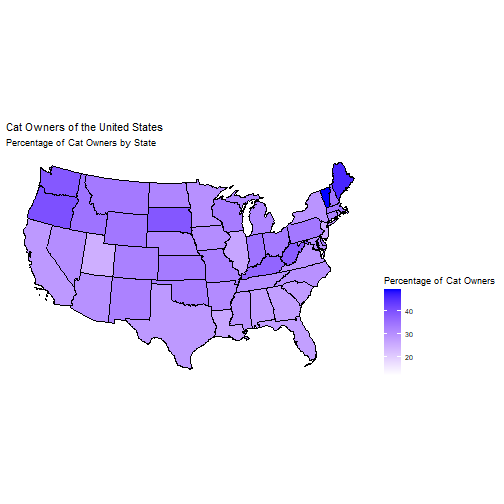
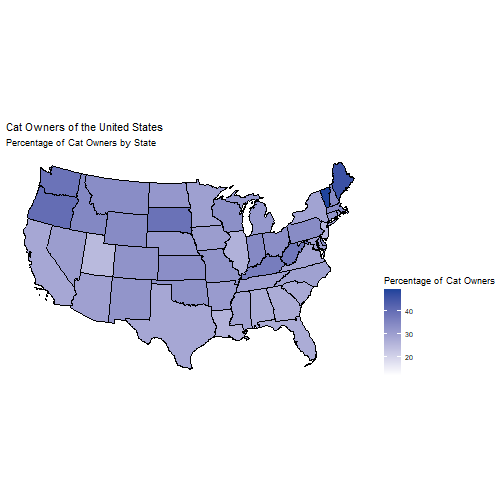
Worked on it a bit

Changed region(s): [[0.0298, 0.3274, 0.7143, 0.744], [0.744, 0.5655, 0.8036, 0.7143]]

diff --git a/Independent Project/Scripts/Cats_vs_Dogs-Project.html b/Independent Project/Scripts/Cats_vs_Dogs-Project.html
@@ -25,7 +25,7 @@ class: center, middle, inverse, title-slide
 ### CSUN
 ]
 .date[
-### 2016/12/12 (updated: 2023-04-04)
+### 2016/12/12 (updated: 2023-04-06)
 ]
 
 ---
@@ -45,19 +45,19 @@ library(usmap)
 # Introduction to the Data Set
 
 - The data was received from the Tidy Tuesday Repository
+
 - The data frame includes cat and dog owner data from the United States
 
-.pull-center[
 
 ```r
 CatvDog_Data &lt;- read.csv(here("Independent Project", "Data", "cats_vs_dogs.csv"))
 ```
-]
 ---
 
 # Cat Owner Percentage in the United States
 
-.pull-left[
+- The code below was used to make the plot on the next slide.
+
 
 ```r
 plot_usmap(data = CatvDog_Data,           
@@ -69,13 +69,47 @@ plot_usmap(data = CatvDog_Data,
        subtitle = "Percentage of Cat Owners by State")+
   theme(panel.background = element_blank(),             
         legend.position = "right")+
-  scale_fill_continuous(low = "white", high = "blue", name = "Percentage of Cat Owners")
+  scale_fill_continuous(low = "white", high = "#1F449C", name = "Percentage of Cat Owners")
+```
+
+
+---
+
+# Cat Owner Percentage in the United States
+
+- The plot below displays the percentage of cat owners per state in the United States.
+
+.middle-center[
+&lt;img src="Cats_vs_Dogs-Project_files/figure-html/CatPercentPlot-out-1.png" width="550" /&gt;
+]
+
+---
+
+# Dog Owner Percentage in the United States
+
+- The plot below displays the percentage of cat owners per state in the United States.
+
+.pull-left[
+
+```r
+plot_usmap(data = CatvDog_Data,           # Plots a flat map of the US.
+           values = "percent_dog_owners",  # Uses the data set and plots the percentage data.
+           regions = "states",
+           exclude = c("AK", "HI"),       # Excluding Alaska and Hawaii from the map since there is no data for them.
+           color = "black")+
+  labs(title = "Dog Owners of the United States",         # Adds titles to the plot.
+       subtitle = "Percentage of Dog Owners by State")+
+  theme(panel.background = element_blank(),             # Makes the map blank inside and put the legend to the right.
+        legend.position = "right")+
+  scale_fill_continuous(low = "white", high = "#E57A77", name = "Percentage of Dog Owners")    # Gives a gradient effect in order of how high or low the percentage is.
 ```
 ]
 
 .pull-right[
-&lt;img src="Cats_vs_Dogs-Project_files/figure-html/CatPercentPlot-out-1.png" width="7" /&gt;
+&lt;img src="Cats_vs_Dogs-Project_files/figure-html/DogPercentPlot-out-1.png" width="900" /&gt;
 ]
+
+---
     </textarea>
 <style data-target="print-only">@media screen {.remark-slide-container{display:block;}.remark-slide-scaler{box-shadow:none;}}</style>
 <script src="https://remarkjs.com/downloads/remark-latest.min.js"></script>
